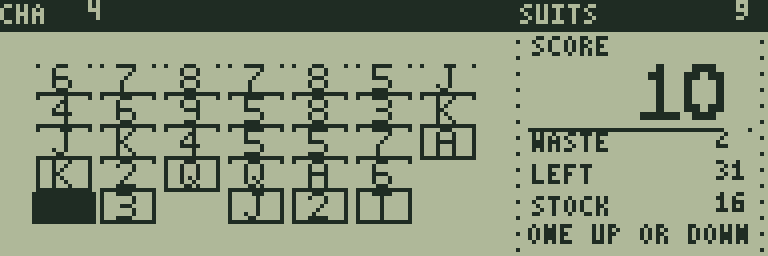
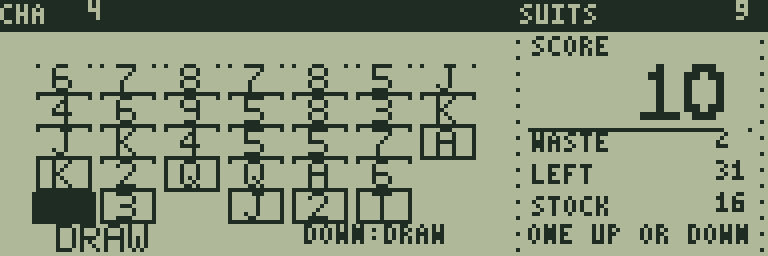
Improve SUIT RUN visual clarity

Changed region(s): [[0.375, 0.875, 0.5938, 0.9688], [0.0625, 0.875, 0.2188, 1.0]]

diff --git a/games/suit-run/README.md b/games/suit-run/README.md
@@ -12,7 +12,7 @@
 
 7列に並ぶ35枚をすべて取り除くとクリアです。各列は一番下にあるカードから使います。方向キーでカーソルを動かし、右側のWASTEと数字が1つ違うカードをSPACEで取り除きます。Aは1、Tは10、Jは11、Qは12、Kは13です。AとKもつながります。取り除いたカードが次のWASTEになります。
 
-カードを連続して取り除くとCHAINが増え、1枚目は1点、2枚目は2点、3枚目は3点と得点が伸びます。使えるカードがないときはRETURNメニューのDRAWで山札を引きます。DRAWはCHAINを0に戻します。山札は16枚で一巡だけです。STOCKが残り山札、LEFTが場に残ったカード数です。山札が尽きて使えるカードもなくなると失敗します。
+カードを連続して取り除くとCHAINが増え、1枚目は1点、2枚目は2点、3枚目は3点と得点が伸びます。使えるカードがないときは、カード列の一番下から下キーで画面下の **DRAW** を選び、SPACEで山札を1枚引きます。上キーでカードへ戻ります。DRAWはCHAINを0に戻します。山札は16枚で一巡だけです。使い切るとDRAWの表示がEMPTYに変わります。STOCKが残り山札、LEFTが場に残ったカード数です。山札が尽きて使えるカードもなくなると失敗します。
 
 RETURNのUNDOは直前の除去またはDRAWを1回戻し、得点とCHAINも復元します。RETRYで同じ配札をやり直せます。すべての数字を4枚ずつ使う標準52枚構成の独自配札を20面収録しています。
 
